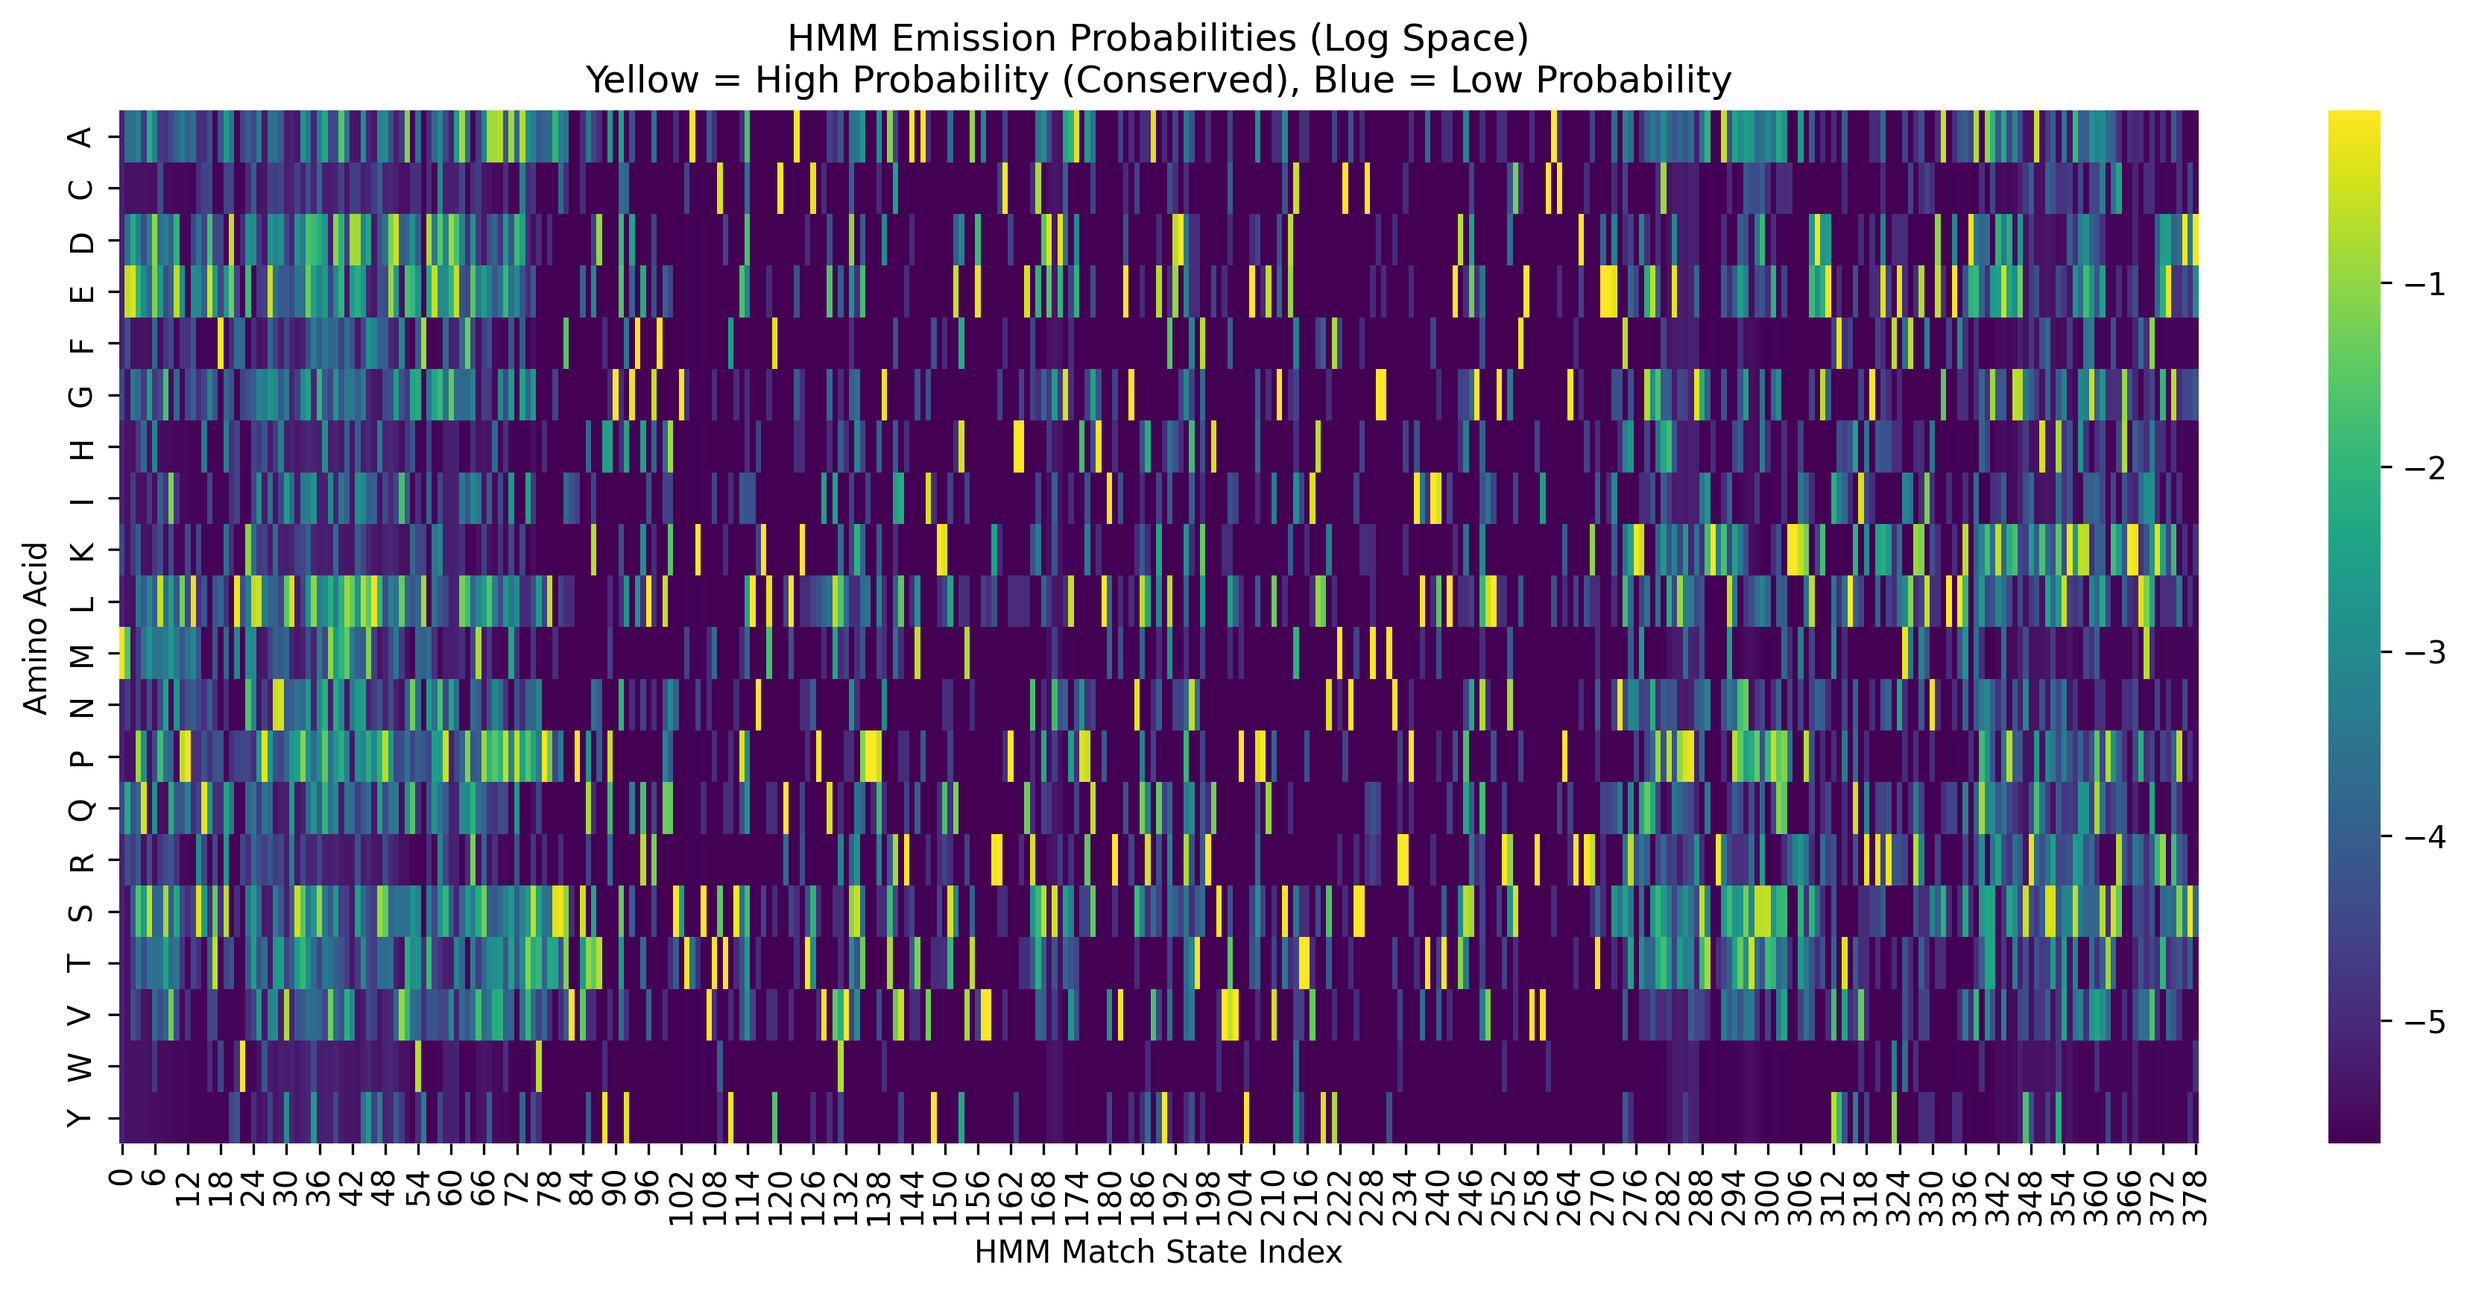
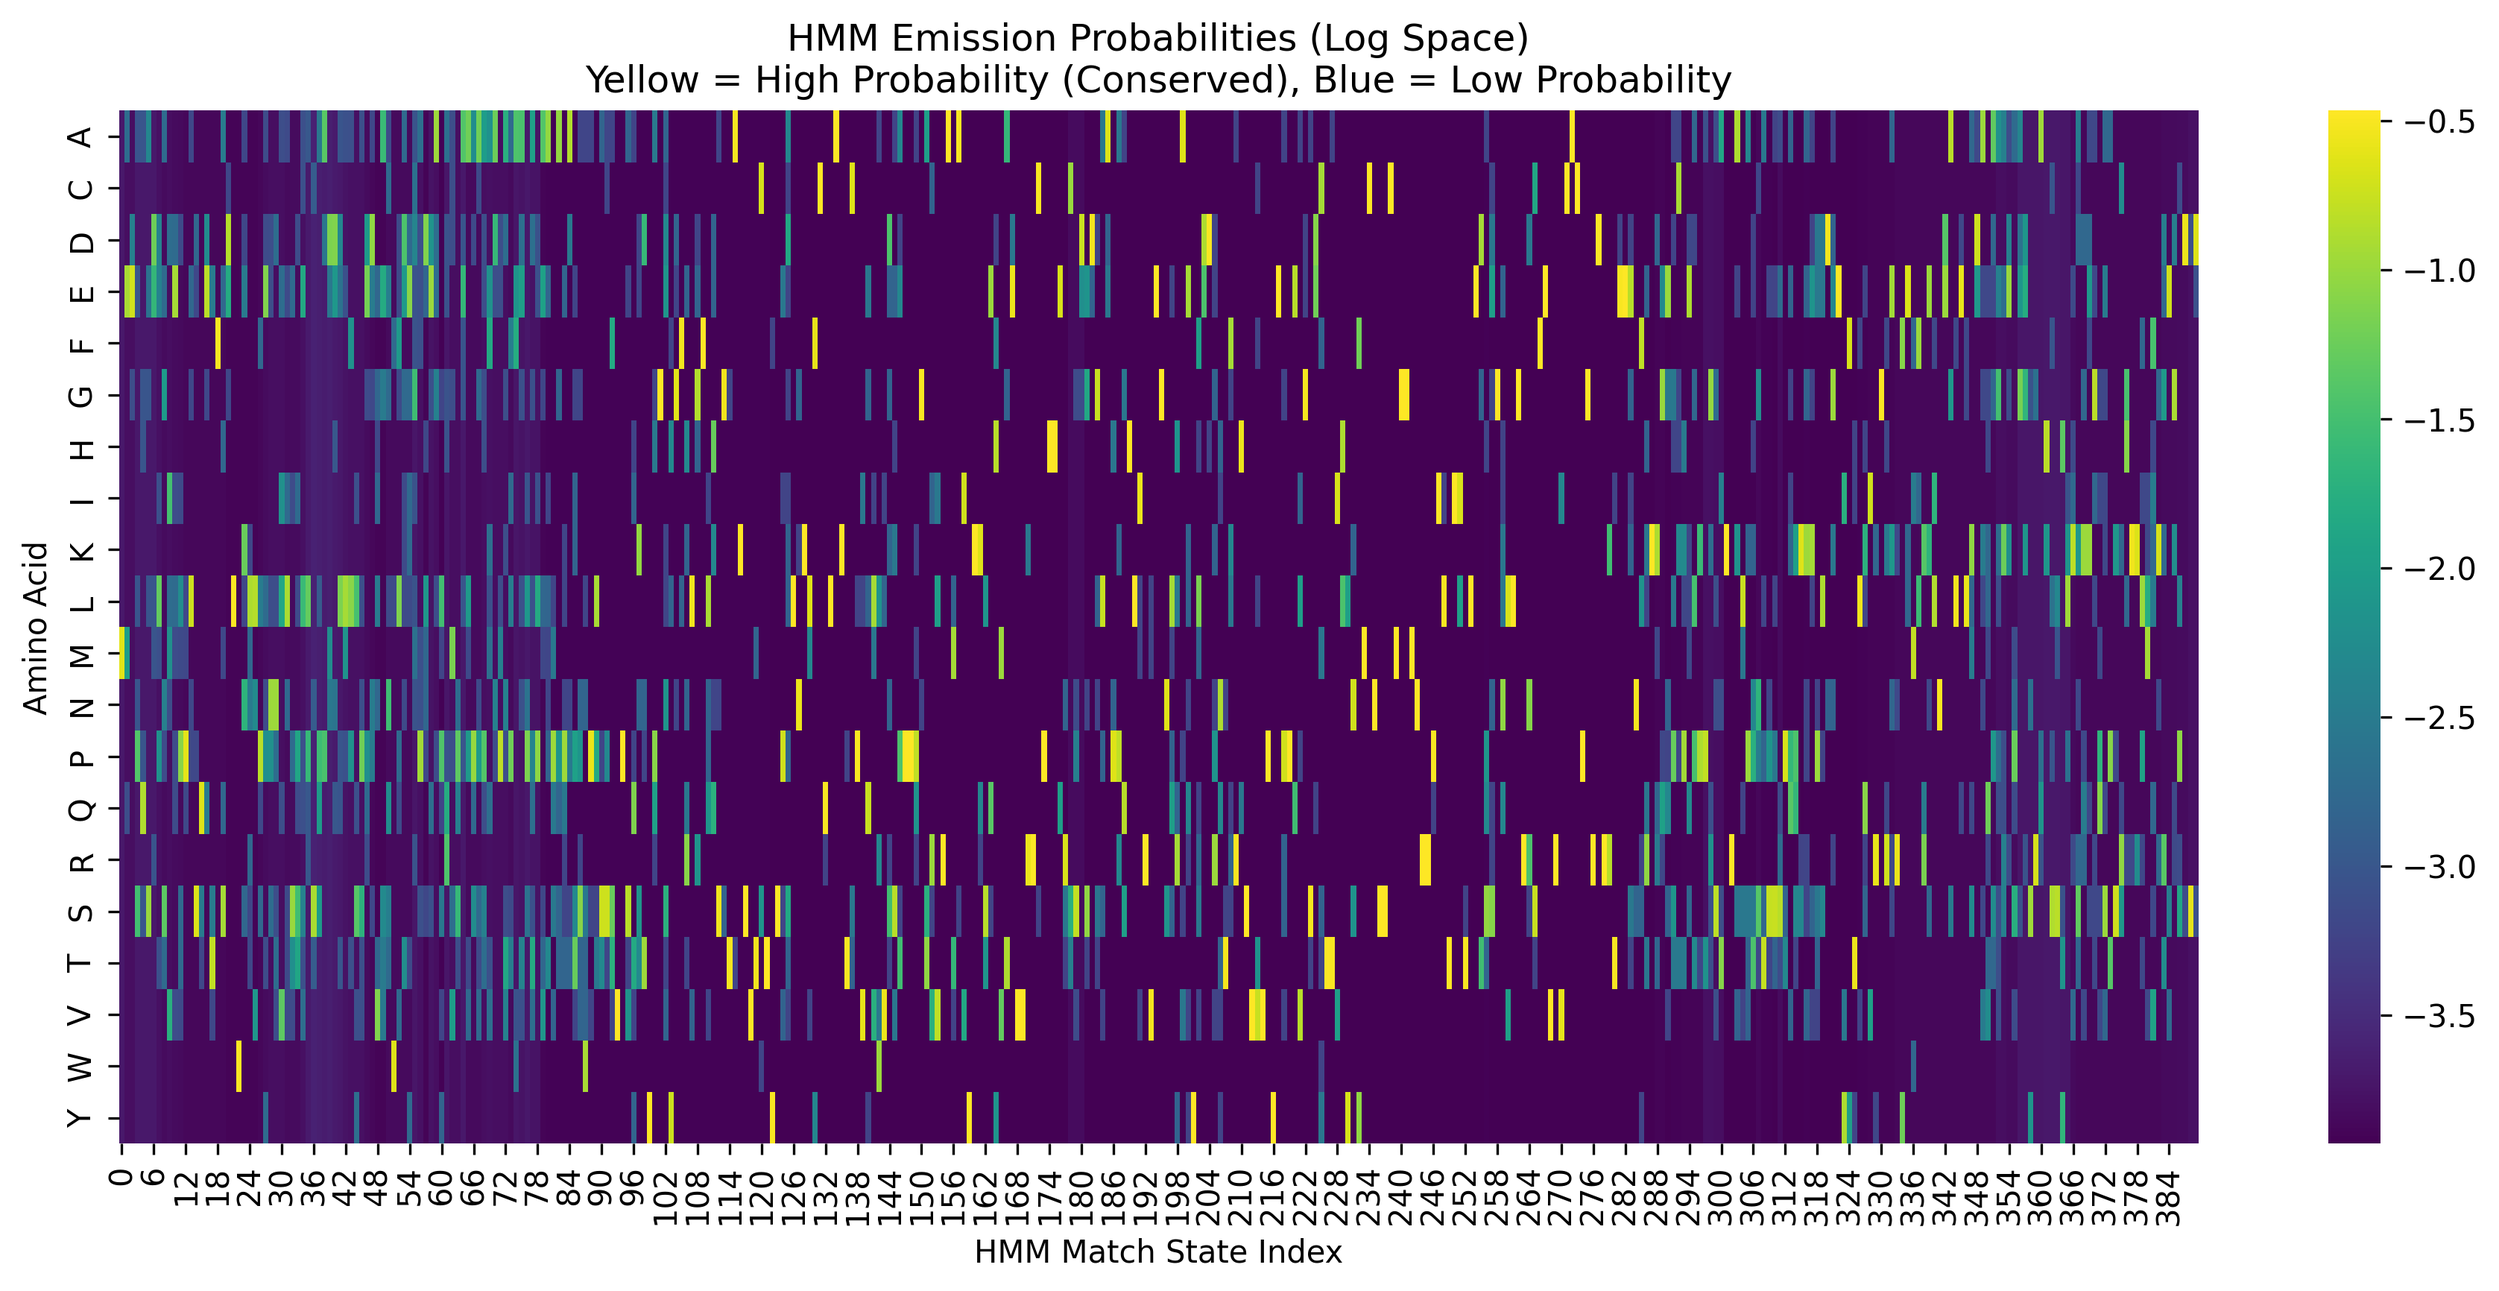
commit

diff --git a/final_model_oop.py b/final_model_oop.py
@@ -1,0 +1,299 @@
+import numpy as np
+import pandas as pd
+from Bio import AlignIO
+import matplotlib.pyplot as plt
+from scipy import stats
+from sklearn.metrics import roc_curve, auc
+import re
+
+# --- הגדרות ---
+# MSA_FILE = "tp53_msa.fasta"
+# MSA_FILE = "tp53_30_msa.fasta"
+MSA_FILE = "tp53_random_30_aligned.fasta"
+
+CLINVAR_FILE = "clinvar_tp53.txt"
+AMINO_ACIDS = list("ACDEFGHIKLMNPQRSTVWY")
+AA_TO_INDEX = {aa: i for i, aa in enumerate(AMINO_ACIDS)}
+
+
+# class EvolutionaryModel:
+#     def __init__(self):
+#         self.emission_probs = None
+#         self.match_cols = []
+#         self.human_map = {}
+#         self.optimal_threshold = None  # נלמד את זה בהמשך
+#
+#     def fit(self, msa_file):
+#         """
+#         שלב האימון: לומד את התפלגות חומצות האמינו מהאבולוציה
+#         """
+#         print(f"Training model on {msa_file}...")
+#         alignment = AlignIO.read(msa_file, "fasta")
+#
+#         # 1. זיהוי עמודות ליבה
+#         n_seqs = len(alignment)
+#         threshold = 0.5
+#         self.match_cols = []
+#         for i in range(alignment.get_alignment_length()):
+#             if alignment[:, i].count("-") / n_seqs < threshold:
+#                 self.match_cols.append(i)
+#
+#         # 2. חישוב מטריצת הפליטה (Emissions)
+#         emission_counts = np.zeros((len(self.match_cols), 20)) + 1  # Pseudocount
+#         for m_idx, col_idx in enumerate(self.match_cols):
+#             col = alignment[:, col_idx].upper()
+#             for char in col:
+#                 if char in AA_TO_INDEX:
+#                     emission_counts[m_idx, AA_TO_INDEX[char]] += 1
+#
+#         # נרמול ללוג
+#         row_sums = emission_counts.sum(axis=1, keepdims=True)
+#         self.emission_probs = np.log(emission_counts / row_sums)
+#
+#         # 3. מיפוי לרצף האנושי (כדי שנוכל לחזות עליו)
+#         self._map_human_sequence(alignment)
+#         print("✅ Training complete.")
+#
+#     def _map_human_sequence(self, alignment):
+#         """פונקציית עזר פנימית למיפוי אינדקסים"""
+#         human_seq = None
+#         for record in alignment:
+#             if "HUMAN" in record.id.upper() or "HOMO" in record.description.upper():
+#                 human_seq = str(record.seq)
+#                 break
+#         if not human_seq: human_seq = str(alignment[0].seq)
+#
+#         self.human_map = {}
+#         curr_human = 1
+#         curr_hmm = 0
+#         for i, char in enumerate(human_seq):
+#             is_match = (i in self.match_cols)
+#             if char != "-":
+#                 if is_match:
+#                     self.human_map[curr_human] = curr_hmm
+#                     curr_hmm += 1
+#                 curr_human += 1
+#             elif is_match:
+#                 curr_hmm += 1
+#
+#     def predict_score(self, position, new_aa):
+#         """
+#         שלב החיזוי (Score Only): מחזיר ציון למוטציה ספציפית
+#         """
+#         if position not in self.human_map:
+#             return None  # עמדה מחוץ למודל
+#
+#         hmm_idx = self.human_map[position]
+#         aa_idx = AA_TO_INDEX.get(new_aa)
+#
+#         if aa_idx is None: return None
+#
+#         # שליפת הציון מהמטריצה שנלמדה
+#         return self.emission_probs[hmm_idx, aa_idx]
+#
+#     def set_optimal_threshold(self, y_true, y_scores):
+#         """
+#         חישוב הסף האופטימלי שנותן את האיזון הכי טוב בין רגישות לספציפיות
+#         """
+#         fpr, tpr, thresholds = roc_curve(y_true, [-x for x in y_scores])  # היפוך סימן
+#         # Youden's J statistic = TPR - FPR
+#         optimal_idx = np.argmax(tpr - fpr)
+#         self.optimal_threshold = -thresholds[optimal_idx]  # החזרה לסימן המקורי
+#
+#         print(f"🎯 Optimal Cutoff Score found: {self.optimal_threshold:.2f}")
+#         return self.optimal_threshold
+#
+#     def predict_class(self, score):
+#         """
+#         מחזיר תשובה סופית: 'Pathogenic' או 'Benign' לפי הסף
+#         """
+#         if self.optimal_threshold is None:
+#             return "Unknown (Threshold not set)"
+#
+#         if score < self.optimal_threshold:
+#             return "Pathogenic"
+#         else:
+#             return "Benign"
+#
+
+
+class EvolutionaryModel:
+    def __init__(self):
+        self.emission_probs = None
+        self.consensus_scores = None  # נשמור את הציון "הכי טוב" לכל עמודה
+        self.match_cols = []
+        self.human_map = {}
+        self.optimal_threshold = None
+
+    def fit(self, msa_file):
+        """אימון המודל + חישוב הקונצנזוס"""
+        print(f"Training model on {msa_file}...")
+        alignment = AlignIO.read(msa_file, "fasta")
+
+        # 1. זיהוי עמודות ליבה
+        n_seqs = len(alignment)
+        threshold = 0.5
+        self.match_cols = []
+        for i in range(alignment.get_alignment_length()):
+            if alignment[:, i].count("-") / n_seqs < threshold:
+                self.match_cols.append(i)
+
+        # 2. חישוב מטריצת הפליטה
+        emission_counts = np.zeros((len(self.match_cols), 20)) + 1
+        for m_idx, col_idx in enumerate(self.match_cols):
+            col = alignment[:, col_idx].upper()
+            for char in col:
+                if char in AA_TO_INDEX:
+                    emission_counts[m_idx, AA_TO_INDEX[char]] += 1
+
+        row_sums = emission_counts.sum(axis=1, keepdims=True)
+        self.emission_probs = np.log(emission_counts / row_sums)
+
+        # --- השיפור: שמירת הציון המקסימלי לכל עמודה ---
+        # זה מייצג את "האידיאל האבולוציוני" בעמדה זו
+        self.consensus_scores = np.max(self.emission_probs, axis=1)
+
+        # 3. מיפוי
+        self._map_human_sequence(alignment)
+        print("✅ Training complete (Normalized by Consensus).")
+
+    def _map_human_sequence(self, alignment):
+        human_seq = None
+        for record in alignment:
+            if "HUMAN" in record.id.upper() or "HOMO" in record.description.upper():
+                human_seq = str(record.seq)
+                break
+        if not human_seq: human_seq = str(alignment[0].seq)
+
+        self.human_map = {}
+        curr_human = 1
+        curr_hmm = 0
+        for i, char in enumerate(human_seq):
+            is_match = (i in self.match_cols)
+            if char != "-":
+                if is_match:
+                    self.human_map[curr_human] = curr_hmm
+                    curr_hmm += 1
+                curr_human += 1
+            elif is_match:
+                curr_hmm += 1
+
+    def predict_score(self, position, new_aa):
+        """
+        חישוב הציון החדש: המרחק מהקונצנזוס
+        """
+        if position not in self.human_map:
+            return None
+
+        hmm_idx = self.human_map[position]
+        aa_idx = AA_TO_INDEX.get(new_aa)
+
+        if aa_idx is None: return None
+
+        # 1. הציון של המוטציה
+        mutant_score = self.emission_probs[hmm_idx, aa_idx]
+
+        # 2. הציון של האות הכי טובה בעמודה זו (Consensus)
+        consensus_score = self.consensus_scores[hmm_idx]
+
+        # 3. הציון הסופי הוא ההפרש (תמיד שלילי או אפס)
+        # ככל שהמספר נמוך יותר (שלילי יותר), כך המוטציה "רחוקה יותר מהאידיאל"
+        normalized_score = mutant_score - consensus_score
+
+        return normalized_score
+
+    def set_optimal_threshold(self, y_true, y_scores):
+        fpr, tpr, thresholds = roc_curve(y_true, [-x for x in y_scores])
+        optimal_idx = np.argmax(tpr - fpr)
+        self.optimal_threshold = -thresholds[optimal_idx]
+        print(f"🎯 Optimal Cutoff Score found: {self.optimal_threshold:.2f}")
+        return self.optimal_threshold
+
+    def predict_class(self, score):
+        if self.optimal_threshold is None: return "Unknown"
+        if score < self.optimal_threshold:
+            return "Pathogenic"
+        else:
+            return "Benign"
+# --- Main Logic ---
+
+# 1. יצירת המודל ואימון
+model = EvolutionaryModel()
+model.fit(MSA_FILE)
+
+# 2. טעינת נתונים למבחן (ClinVar)
+print("Loading ClinVar for evaluation...")
+try:
+    df = pd.read_csv(CLINVAR_FILE, sep='\t')
+    if df.shape[1] < 2: df = pd.read_csv(CLINVAR_FILE)
+except:
+    print("Error reading ClinVar.")
+    exit()
+
+# זיהוי עמודות (הקוד החכם שלך)
+name_col = next((c for c in df.columns if c in ['Name', 'ProteinChange', 'HGVS.p']), df.columns[0])
+sig_col = next((c for c in df.columns if 'ClinicalSignificance' in c or 'Germline' in c or 'Significance' in c), None)
+
+scores_pathogenic = []
+scores_benign = []
+
+# 3. הרצת חיזויים על הדאטה
+print("Predicting scores...")
+for idx, row in df.iterrows():
+    try:
+        if pd.isna(row[name_col]) or pd.isna(row[sig_col]): continue
+
+        val = str(row[name_col])
+        m = re.search(r'p\.([A-Z][a-z]{2})(\d+)([A-Z][a-z]{2})', val)
+        if not m: continue
+
+        pos = int(m.group(2))
+        new_aa = (re.sub(r'([A-Z][a-z]+)', lambda x: x.group(0)[0], m.group(3)))[0]  # המרה זריזה
+        # המרה בטוחה יותר באמצעות Bio.SeqUtils אם צריך
+        from Bio.SeqUtils import seq1
+
+        new_aa = seq1(m.group(3))
+
+        # --- כאן מתבצע החיזוי ---
+        score = model.predict_score(pos, new_aa)
+
+        if score is not None:
+            sig = str(row[sig_col]).lower()
+            if 'pathogenic' in sig and 'benign' not in sig:
+                scores_pathogenic.append(score)
+            elif 'benign' in sig and 'pathogenic' not in sig:
+                scores_benign.append(score)
+    except:
+        continue
+
+# 4. מציאת הסף האופטימלי (Fine Tuning)
+y_true = [1] * len(scores_pathogenic) + [0] * len(scores_benign)
+y_scores = scores_pathogenic + scores_benign
+cutoff = model.set_optimal_threshold(y_true, y_scores)
+
+# 5. דוגמה לשימוש בחיזוי בזמן אמת (למצגת)
+print("-" * 30)
+print("🩺 Real-time Prediction Example:")
+test_mutation_pos = 175
+test_mutation_aa = 'H'  # Arg175His (המפורסמת)
+my_score = model.predict_score(test_mutation_pos, test_mutation_aa)
+diagnosis = model.predict_class(my_score)
+
+print(f"Mutation: p.Arg{test_mutation_pos}His")
+print(f"Model Score: {my_score:.2f}")
+print(f"Model Diagnosis: {diagnosis} (Cutoff: {cutoff:.2f})")
+print("-" * 30)
+
+# 6. ציור ROC סופי
+fpr, tpr, _ = roc_curve(y_true, [-x for x in y_scores])
+roc_auc = auc(fpr, tpr)
+
+plt.figure(figsize=(8, 6))
+plt.plot(fpr, tpr, color='darkorange', lw=2, label=f'ROC curve (AUC = {roc_auc:.3f})')
+plt.plot([0, 1], [0, 1], color='navy', linestyle='--')
+plt.title(f'Model Performance (AUC={roc_auc:.2f})')
+plt.xlabel('False Positive Rate')
+plt.ylabel('True Positive Rate')
+plt.legend()
+plt.savefig("final_optimized_roc.png")
+print(f"Final AUC: {roc_auc:.3f}")

diff --git a/random_sample_experiment.py b/random_sample_experiment.py
@@ -1,0 +1,37 @@
+import requests
+import random
+from Bio import SeqIO
+from io import StringIO
+
+# 1. הורדת כל הרצפים האיכותיים (Reviewed Vertebrates)
+query = "gene:tp53 AND taxonomy_id:7742 AND reviewed:true"
+url = "https://rest.uniprot.org/uniprotkb/stream"
+params = {
+    "format": "fasta",
+    "query": query,
+    "includeIsoform": "false"
+}
+
+print("Fetching ALL reviewed vertebrate sequences from UniProt...")
+response = requests.get(url, params=params)
+
+if response.status_code != 200:
+    print("Error downloading.")
+    exit()
+
+# טעינת הרצפים לזיכרון
+all_sequences = list(SeqIO.parse(StringIO(response.text), "fasta"))
+total_count = len(all_sequences)
+print(f"Total reviewed sequences found: {total_count}")
+
+# 2. בחירה רנדומלית של 30 רצפים
+print("Selecting 30 random sequences...")
+random_30 = random.sample(all_sequences, 30)
+
+# 3. שמירה לקובץ
+output_file = "tp53_random_30.fasta"
+with open(output_file, "w") as f:
+    SeqIO.write(random_30, f, "fasta")
+
+print(f"✅ Saved 30 random sequences to '{output_file}'")
+print("⚠ DON'T FORGET: You must ALIGN this file before running the model!")

diff --git a/build_hmm.py b/build_hmm.py
@@ -5,7 +5,9 @@ import matplotlib.pyplot as plt
 import seaborn as sns
 
 # --- הגדרות ---
-MSA_FILE = "tp53_msa.fasta"
+# MSA_FILE = "tp53_msa.fasta"
+MSA_FILE = "tp53_30_msa.fasta"
+
 AMINO_ACIDS = list("ACDEFGHIKLMNPQRSTVWY")  # 20 חומצות האמינו
 AA_TO_INDEX = {aa: i for i, aa in enumerate(AMINO_ACIDS)}
 

diff --git a/clean_data.py b/clean_data.py
@@ -4,6 +4,11 @@ import os
 input_file = "tp53_orthologs_raw.fasta"
 output_file = "tp53_orthologs_clean.fasta"
 
+# input_file = "tp53_30_orthologs_raw.fasta"
+# output_file = "tp53_30_orthologs_clean.fasta"
+
+
+
 # רשימה לשמירת רצפים ייחודיים בלבד
 seen_sequences = set()
 clean_records = []

diff --git a/run_analysis.py b/run_analysis.py
@@ -9,7 +9,8 @@ from scipy import stats
 from sklearn.metrics import roc_curve, auc
 
 # --- קבצים ---
-MSA_FILE = "tp53_msa.fasta"
+# MSA_FILE = "tp53_msa.fasta"
+MSA_FILE = "tp53_30_msa.fasta"
 CLINVAR_FILE = "clinvar_tp53.txt"  # וודאי שזה השם הנכון
 
 # --- הגדרות ---
